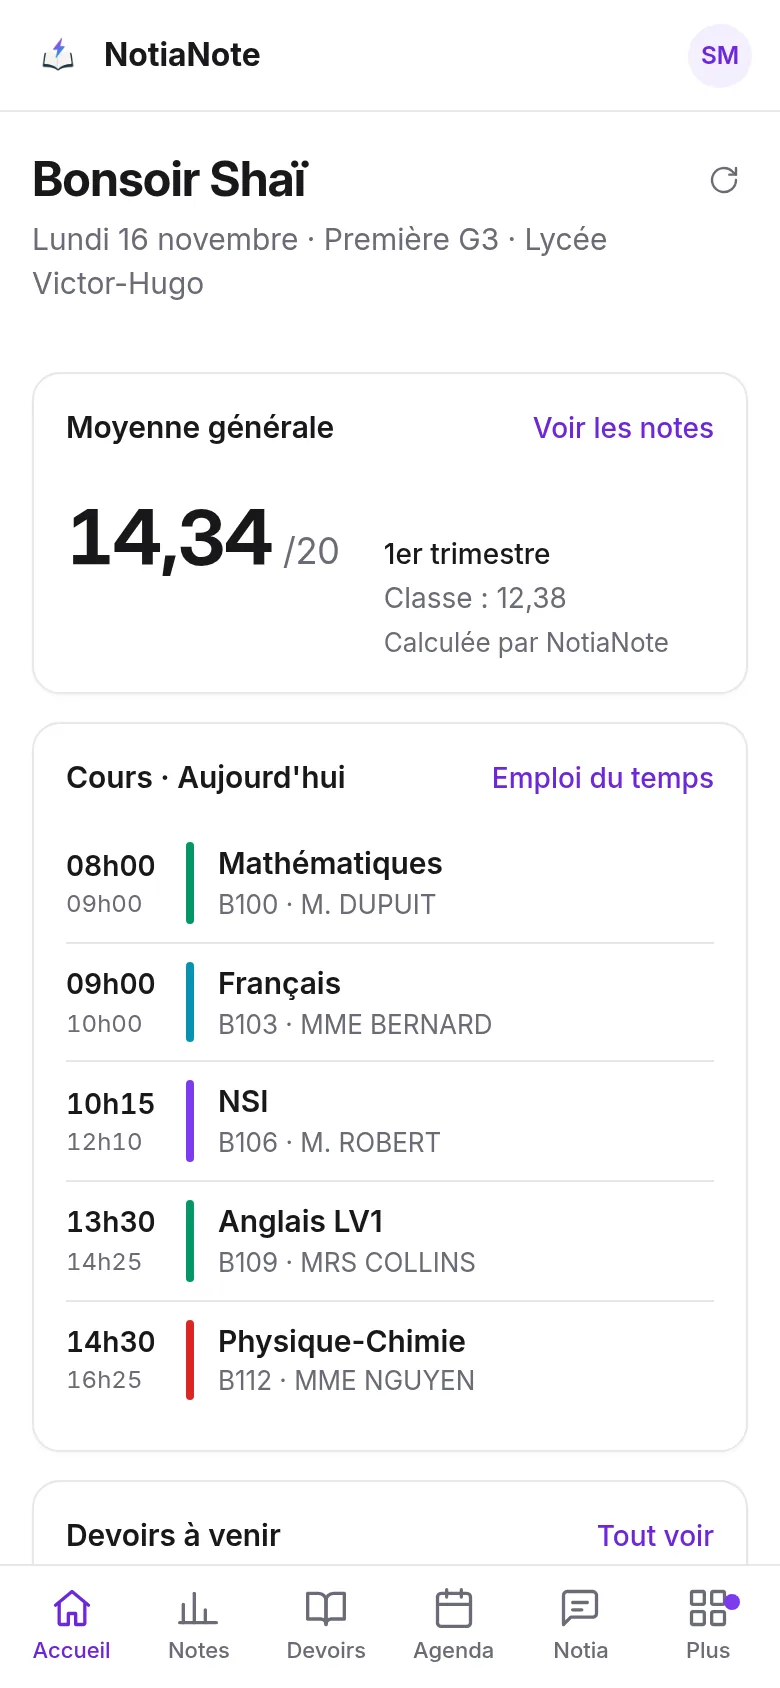
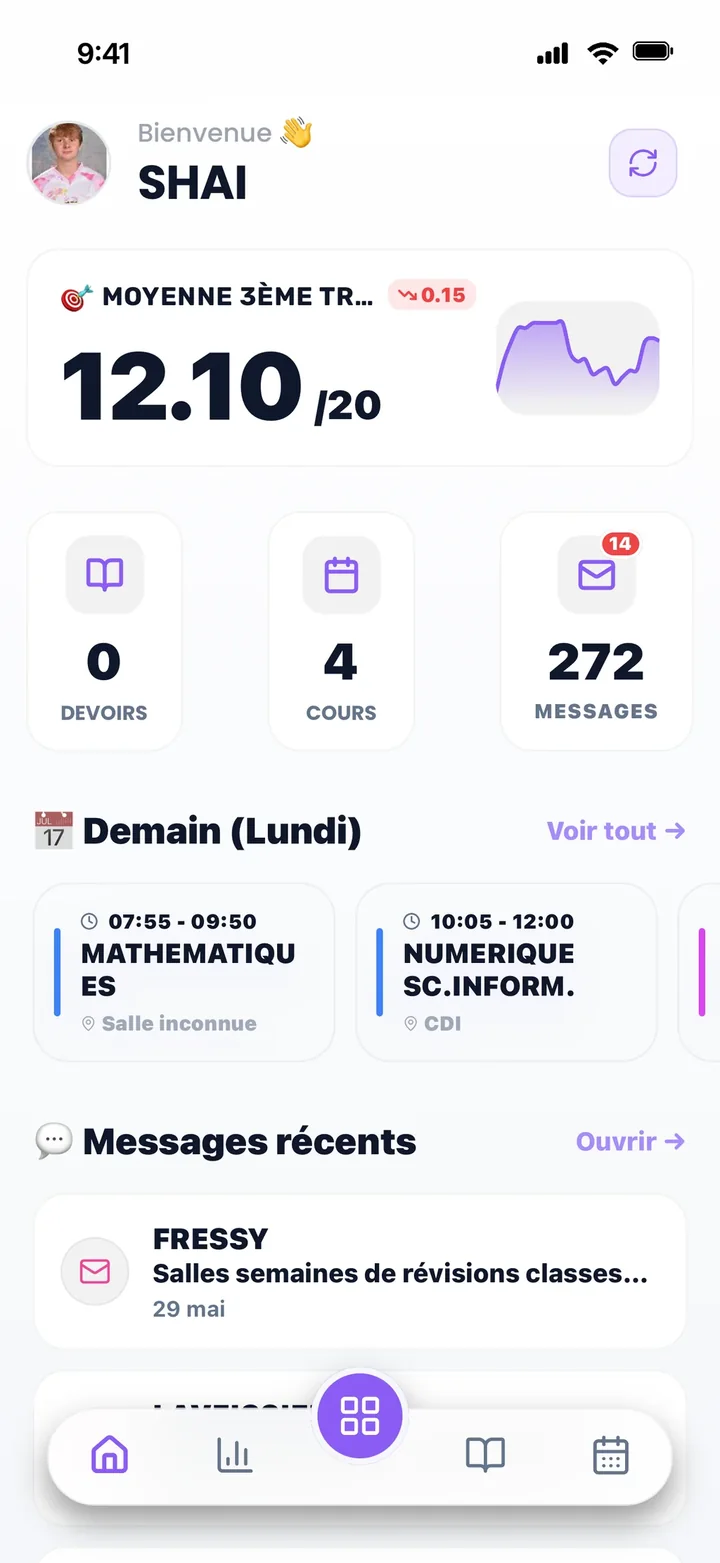
NotiaNote : vraies captures de l'app dans un cadre iPhone (tuile d'accueil et articles)

diff --git a/src/data/posts.ts b/src/data/posts.ts
@@ -53,13 +53,35 @@ const fuelIcon: PostImage = {
 
 const notianoteApp: PostImage = {
   src: "/images/notianote-accueil.webp",
-  width: 780,
-  height: 1688,
+  width: 720,
+  height: 1563,
   alt: {
-    fr: "Écran d'accueil de l'application NotiaNote : moyenne générale et cours du jour.",
-    en: "NotiaNote app home screen: overall average and today's classes.",
+    fr: "Écran d'accueil de l'application NotiaNote : moyenne du trimestre, devoirs, cours, messages et cours du lendemain.",
+    en: "NotiaNote app home screen: term average, homework, classes, messages and tomorrow's lessons.",
   },
-  caption: { fr: "L'accueil de l'application mobile.", en: "The mobile app home screen." },
+  caption: { fr: "L'accueil de l'application, sur iPhone.", en: "The app home screen, on iPhone." },
+}
+
+const notianoteNotes: PostImage = {
+  src: "/images/notianote-notes.webp",
+  width: 720,
+  height: 1563,
+  alt: {
+    fr: "Écran Notes de NotiaNote : moyenne générale, moyenne de classe et notes par matière.",
+    en: "NotiaNote grades screen: overall average, class average and grades per subject.",
+  },
+  caption: { fr: "L'écran des notes, sur iPhone.", en: "The grades screen, on iPhone." },
+}
+
+const notianoteEdt: PostImage = {
+  src: "/images/notianote-edt.webp",
+  width: 720,
+  height: 1563,
+  alt: {
+    fr: "Écran Emploi du temps de NotiaNote : les cours de la journée, avec salles et professeurs.",
+    en: "NotiaNote timetable screen: the day's classes, with rooms and teachers.",
+  },
+  caption: { fr: "L'emploi du temps, sur iPhone.", en: "The timetable, on iPhone." },
 }
 
 const serpentixShot: PostImage = {
@@ -330,7 +352,6 @@ export const posts: Post[] = [
       fr: "Sortie iOS le 3 mars 2026. L'application Android existe aussi, sous com.dontbyshai.notianote.",
       en: "iOS release on 3 March 2026. The Android app also exists, as com.dontbyshai.notianote.",
     },
-    image: notianoteIcon,
     links: [
       {
         href: "https://apps.apple.com/fr/app/notianote/id6758548199",
@@ -345,6 +366,7 @@ export const posts: Post[] = [
         label: { fr: "notianote.fr", en: "notianote.fr" },
       },
     ],
+    image: notianoteNotes,
     paragraphs: {
       fr: [
         "Le 3 mars 2026, NotiaNote est sur l'App Store français. L'identifiant est 6758548199. L'éditeur indiqué sur la fiche est « laure dugat ».",
@@ -779,6 +801,7 @@ export const posts: Post[] = [
         label: { fr: "Play Store", en: "Play Store" },
       },
     ],
+    image: notianoteEdt,
     paragraphs: {
       fr: [
         "Le 7 octobre 2026, la fiche App Store de NotiaNote affiche la version 2.7.2. Je n'ai pas le détail des changements de cette version.",
